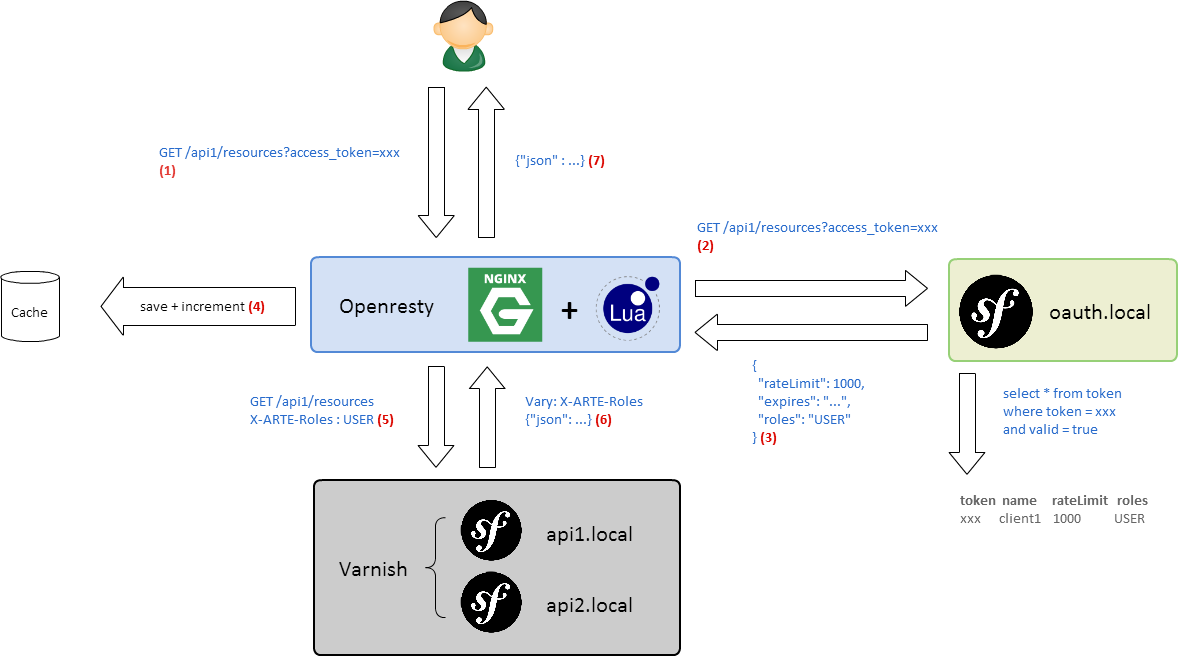
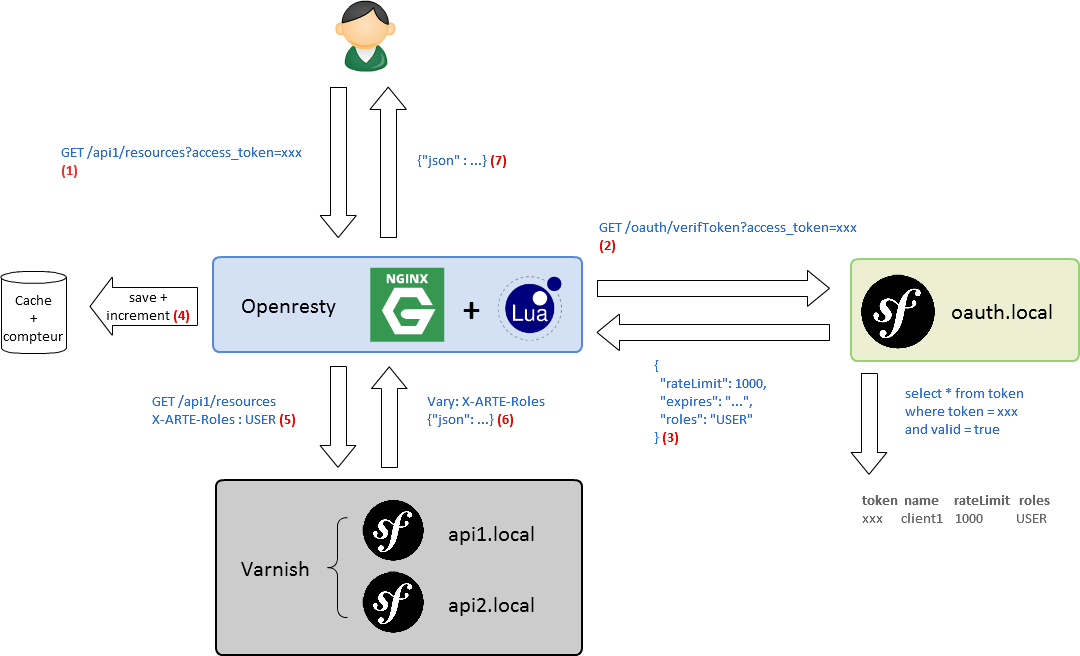
update schema

diff --git a/content.md b/content.md
@@ -268,7 +268,7 @@ class: center
 
 # Schéma d'architecture globale
 
-.center[<img src="./schemas/architecture-api2.png" alt="schéma d'artchitecture" height="505em"  />]
+.center[<img src="./schemas/architecture-api.png" alt="schéma d'architecture" height="500em"  />]
 
 ???
 Un Reverse Proxy qui protège toutes nos applications.
